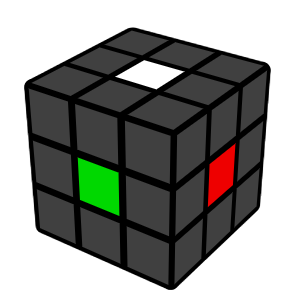
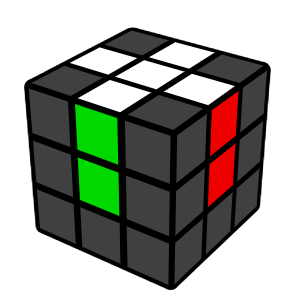
tutorial pictures

Changed region(s): [[0.24, 0.15, 0.51, 0.57], [0.48, 0.12, 0.81, 0.54]]

diff --git a/index.html b/index.html
@@ -25,7 +25,21 @@
       </nav>
     </header>
     <main>
-      <p>Solving a Rubiks Cube is no easy task.</p>
+      <h1>How to Solve the Rubiks Cube</h1>
+      <section>
+        <h2>Beginners Method</h2>
+        <p>The first step in solving the rubiks cube is solving the cross</p>
+        <img
+          src="images/no_cross.png"
+          alt="picture showing an unsolved rubiks cube"
+        />
+        <img
+          width="150px"
+          height="200px"
+          src="images/point_to_next_step.png"
+          alt="arrow directing the user to the next step in solving the Rubiks cube"
+        />
+      </section>
     </main>
     <!-- <footer>
       <p>&#169; PTEC</p>

diff --git a/CSS/style.css b/CSS/style.css
@@ -44,4 +44,5 @@ header ul a:hover {
 main {
   margin-top: 60px;
   padding: 10px;
+  text-align: center;
 }
